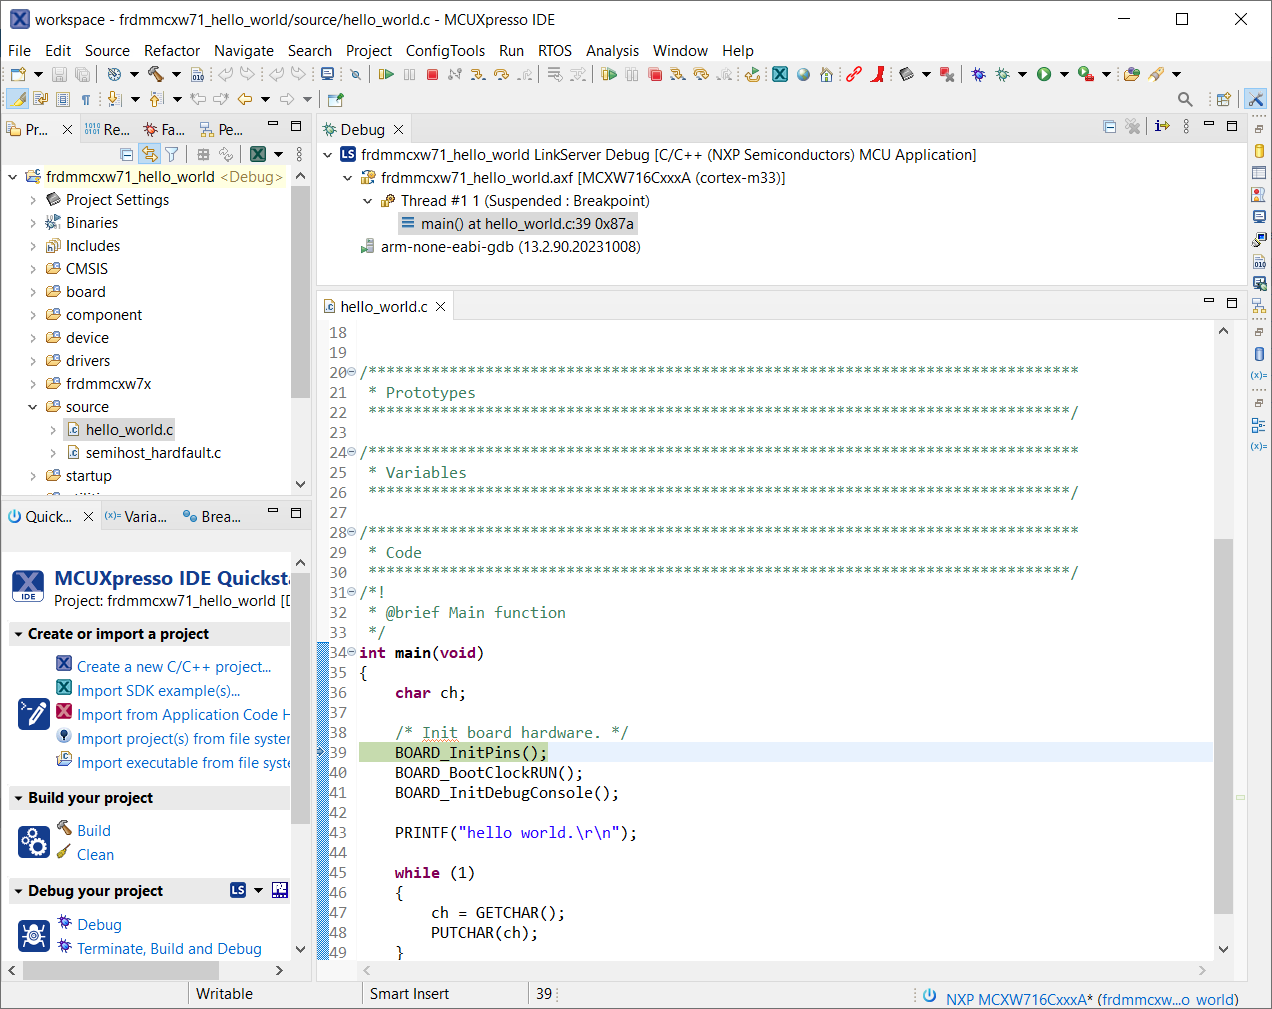
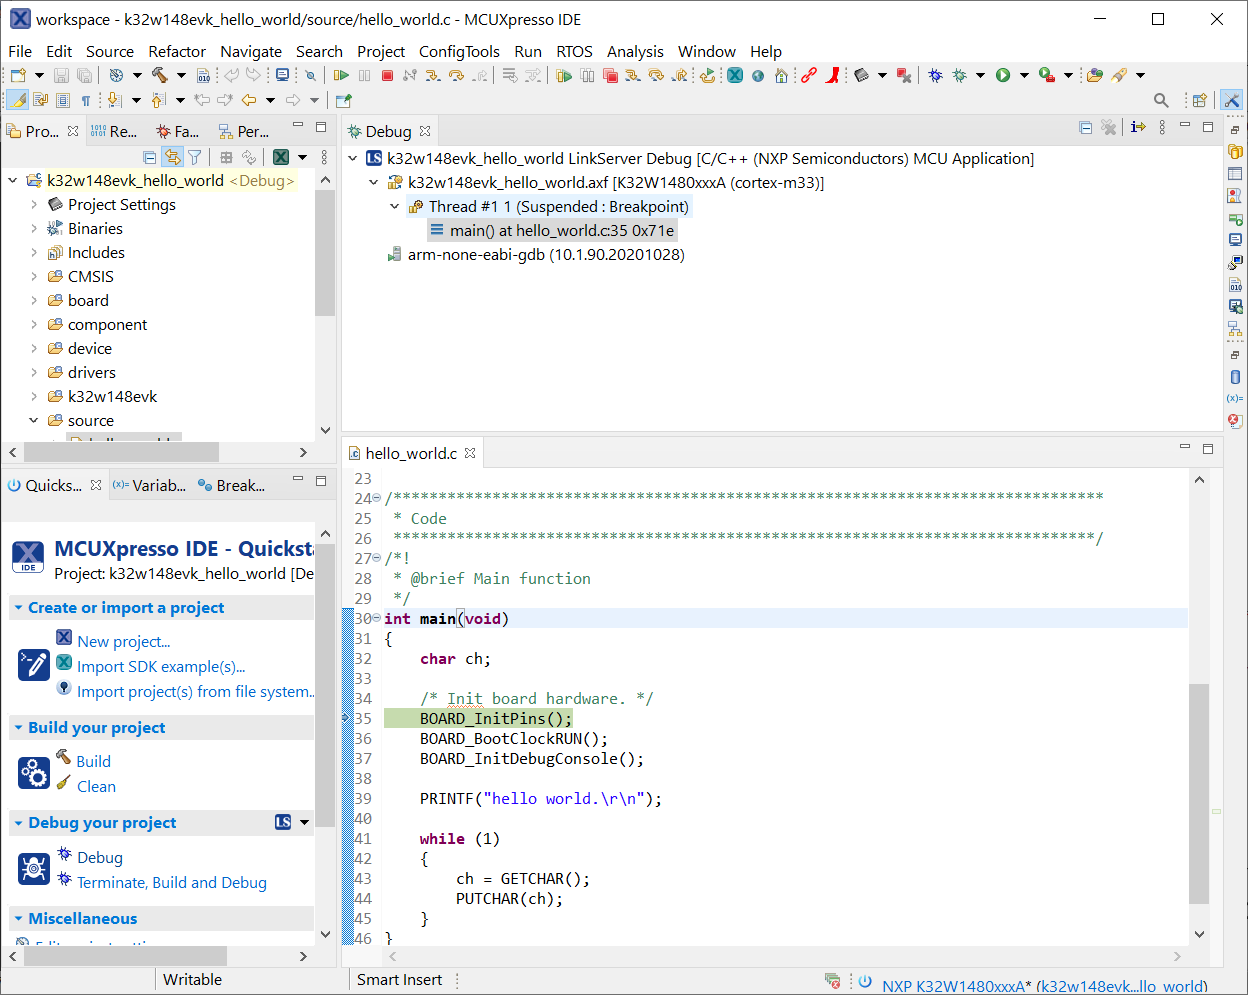
GS for FRDM-MCXW71

diff --git a/boards/frdmmcxw71/gettingStarted/topics/updating_debugger_firmware.md b/boards/frdmmcxw71/gettingStarted/topics/updating_debugger_firmware.md
@@ -1,6 +1,6 @@
 # Updating debugger firmware {#topic_rrw_l2h_5wb}
 
-The FRDM-MCXW71 board comes with a CMSIS-DAP-compatible debug interface \(known as MCU-Link\). This firmware in this debug interface may be updated using the host computer scripts. This typically used when switching between the default debugger protocol \(CMSIS-DAP\) to SEGGER J-Link, or for updating this firmware with new releases of these. This section contains the steps to re-program the debug probe firmware.
+The K32W148-EVK board comes with a CMSIS-DAP-compatible debug interface \(known as MCU-Link\). This firmware in this debug interface may be updated using the host computer scripts. This typically used when switching between the default debugger protocol \(CMSIS-DAP\) to SEGGER J-Link, or for updating this firmware with new releases of these. This section contains the steps to re-program the debug probe firmware.
 
 NXP provides the MCU-Link utility, which is the recommended tool for programming the latest versions of CMSIS-DAP and J-Link firmware onto MCU-Link. The utility can be downloaded from [https://www.nxp.com/design/microcontrollers-developer-resources/mcu-link-debug-probe:MCU-LINK](https://www.nxp.com/design/microcontrollers-developer-resources/mcu-link-debug-probe:MCU-LINK).
 
@@ -8,12 +8,12 @@ These steps show how to update the debugger firmware on your board for Windows o
 
 1.  Install the MCU-Link utility.
 2.  Unplug the board's USB cable.
-3.  Install the jumper on JP5.
+3.  Install the jumper on JP20.
 4.  Connect the probe to the host via USB \(use Link USB connector\).
 5.  Open a command shell and call the appropriate script located in the MCU-Link installation directory, *<MCU-Link install dir*\>.
 
     1.  To program CMSIS-DAP debug firmware: *<MCU-Link install dir\>/scripts/program\_CMSIS*.
     2.  To program J-Link debug firmware: *<MCU-Link install dir\>/scripts/program\_JLINK*.
-6.  Remove the jumper on JP5.
+6.  Remove the jumper on JP20.
 7.  Re-power the board by removing the USB cable and plugging it in again.
 

diff --git a/boards/frdmmcxw71/gettingStarted/topics/running_a_demo_application_using_iar.md b/boards/frdmmcxw71/gettingStarted/topics/running_a_demo_application_using_iar.md
@@ -1,17 +1,6 @@
-# Running a demo application using IAR
+# Running a Demo Application using IAR
 
-This section describes the steps required to build, run, and debug example applications provided in the MCUXpresso SDK. The `hello_world` demo application targeted for the **frdmmcxw71** hardware platform is used as an example, although these steps can be applied to any example application in the MCUXpresso SDK.
-
-MCXW71 is a new product which is not natively supported by IAR toolchain at the time of this writing.
-
-It will be supported in IAR 9.60.3 targeted for mid-Oct 2024. So, before IAR 9.60.3, follow the steps below to apply the patch. This patch provides all the files to be incorporated in IAR Embedded Workbench folder structure so that MCXW71 SDK projects can be built and debugged in this IDE.
-
-**Important:**
-
-The following patch has been tested with IAR Embedded Workbench v9.60. IAR patch is distributed via [https://mcuxpresso.nxp.com/download/29461429d7fb0eb696d55ab0c47e3a6b](https://mcuxpresso.nxp.com/download/29461429d7fb0eb696d55ab0c47e3a6b).
-
-1.  Download the archive file iar\_patch\_mcxw71.zip.
-2.  Unzip the file and copy the arm directory in your IAR folder structure. For example, C:/Program Files/IAR systems.
+This section describes the steps required to build, run, and debug example applications provided in the MCUXpresso SDK. The `hello_world` demo application targeted for the **k32w148evk** hardware platform is used as an example, although these steps can be applied to any example application in the MCUXpresso SDK.
 
 
 ```{include} ../topics/build_an_example_application.md

diff --git a/boards/frdmmcxw71/gettingStarted/topics/mcuxpresso_sdk_board_support_package_folders.md b/boards/frdmmcxw71/gettingStarted/topics/mcuxpresso_sdk_board_support_package_folders.md
@@ -1,6 +1,6 @@
 # MCUXpresso SDK Board Support Package Folders
 
-MCUXpresso SDK board support package provides example applications for NXP development and evaluation boards for Arm Cortex-M cores including Freedom, Tower System, and LPCXpresso boards. Board support packages are found inside the top-level boards folder and each supported board has its own folder \(an MCUXpresso SDK package can support multiple boards\). Within each *<board\_name\>* folder, there are various sub-folders to classify the type of examples it contains. These include \(but are not limited to\):
+MCUXpresso SDK board support package provides example applications for NXP development and evaluation boards for Arm® Cortex®-M cores including Freedom, Tower System, and LPCXpresso boards. Board support packages are found inside the top-level boards folder and each supported board has its own folder \(an MCUXpresso SDK package can support multiple boards\). Within each *<board\_name\>* folder, there are various sub-folders to classify the type of examples it contains. These include \(but are not limited to\):
 
 -   `demo_apps`: Full-featured applications that highlight key functionality and use cases of the target MCU. These applications typically use multiple MCU peripherals and may leverage stacks and middleware.
 -   `driver_examples`: Simple applications that show how to use the MCUXpresso SDK’s peripheral drivers for a single use case. These applications typically only use a single peripheral but there are cases where multiple peripherals are used \(for example, SPI conversion using DMA\).

diff --git a/boards/frdmmcxw71/gettingStarted/topics/overview.md b/boards/frdmmcxw71/gettingStarted/topics/overview.md
@@ -2,7 +2,7 @@
 
 The NXP MCUXpresso software and tools offer comprehensive development solutions designed to optimize, ease and help accelerate embedded system development of applications based on general purpose, crossover and Bluetooth™-enabled MCUs from NXP. The MCUXpresso SDK includes a flexible set of peripheral drivers designed to speed up and simplify development of embedded applications which can be used standalone or collaboratively with the A cores running another Operating System \(such as Linux OS Kernel\). Along with the peripheral drivers, the MCUXpresso SDK provides an extensive and rich set of example applications covering everything from basic peripheral use case examples to demo applications. The MCUXpresso SDK also contains optional RTOS integrations such as FreeRTOS and Azure RTOS, device stack, and various other middleware to support rapid development.
 
-For supported toolchain versions, see *MCUXpresso SDK Release Notes for FRDM-MCXW71* \(Document MCUXSDKMCXW716RN\).
+For supported toolchain versions, see *MCUXpresso SDK Release Notes for K32W148-EVK* \(Document MCUXSDKK32W1RN\).
 
 For the latest version of this and other MCUXpresso SDK documents, see [MCUXpresso Software Development Kit \(SDK\)](https://www.nxp.com/design/software/development-software/mcuxpresso-software-and-tools-/mcuxpresso-software-development-kit-sdk:MCUXpresso-SDK).
 

diff --git a/boards/frdmmcxw71/gettingStarted/topics/run_an_example_application_001.md b/boards/frdmmcxw71/gettingStarted/topics/run_an_example_application_001.md
@@ -2,7 +2,7 @@
 
 To download and run the application, perform these steps:
 
-1.  Connect the development platform to your PC via USB cable between the USB connector \(J10 and the PC USB connector.
+1.  Connect the development platform to your PC via USB cable between the USB connector \(J14\) and the PC USB connector.
 2.  Open the terminal application on the PC, such as PuTTY or TeraTerm, and connect to the debug COM port. To determine the COM port number, see [How to determine COM Port](how_to_determine_com_port.md). Configure the terminal with these settings:
 
     1.  115200 baud rate, depending on your settings \(reference the `BOARD_DEBUG_UART_BAUDRATE` variable in the `board.h` file\)
@@ -28,5 +28,5 @@ To download and run the application, perform these steps:
     ![](../images/iar_text_display_hello_world.jpg "Text display of the hello_world demo")
 
 
-**Parent topic:**[Running a demo application using IAR](../topics/running_a_demo_application_using_iar.md)
+**Parent topic:**[Running a Demo Application using IAR](../topics/running_a_demo_application_using_iar.md)
 

diff --git a/boards/frdmmcxw71/gettingStarted/topics/build_an_example_application.md b/boards/frdmmcxw71/gettingStarted/topics/build_an_example_application.md
@@ -8,10 +8,10 @@ Do the following steps to build the `hello_world` example application..
     <install_dir>/boards/<board_name>/<example_type>/<application_name>/iar
     ```
 
-    Using the `frdmmcxw71` hardware platform as an example, the `hello_world` workspace is located in:
+    Using the k32w148evk hardware platform as an example, the `hello_world` workspace is located in:
 
     ```
-    <install_dir>/boards/frdmmcxw71/demo_apps/hello_world/iar/hello_world.eww
+    <install_dir>/boards/k32w148evk/demo_apps/hello_world/iar/hello_world.eww
     ```
 
     Other example applications may have additional folders in their path.
@@ -28,5 +28,5 @@ Do the following steps to build the `hello_world` example application..
 
 4.  The build completes without errors.
 
-**Parent topic:**[Running a demo application using IAR](../topics/running_a_demo_application_using_iar.md)
+**Parent topic:**[Running a Demo Application using IAR](../topics/running_a_demo_application_using_iar.md)
 

diff --git a/boards/frdmmcxw71/gettingStarted/topics/how_to_set_the_board_to_bootloader.md b/boards/frdmmcxw71/gettingStarted/topics/how_to_set_the_board_to_bootloader.md
@@ -1,12 +1,12 @@
 # How to set the board to the Bootloader ISP mode {#topic_osx_j2h_5wb}
 
-On FRDM-MCXW71 board:
+On K32W148-EVK board:
 
-1.  Press and hold the BOOT CONFIG switch SW3.
-2.  Connect the FRDM-MCXW71 board via micro-USB connector to the PC.
-3.  Release the switch SW3.
+1.  Press and hold the BOOT CONFIG switch SW4.
+2.  Connect the K32W148-EVK board via micro-USB connector to the PC.
+3.  Release the switch SW4.
 4.  Check the associated USB port number on the PC \(such as, COM10\).
-5.  While MCXW716 is in bootloader ISP mode, navigate to the folder where *blhost.exe* is located.
+5.  While the K32W148 is in bootloader ISP mode, navigate to the folder where *blhost.exe* is located.
 6.  Type the command `.\blhost.exe -p COM10 -- get-property 1` to make sure that the K32W148 is in Bootloader ISP mode, you should see:
 
     Ping responded in 1 attempt\(s\)

diff --git a/boards/frdmmcxw71/gettingStarted/topics/run_a_demo_using_mcuxpresso_ide.md b/boards/frdmmcxw71/gettingStarted/topics/run_a_demo_using_mcuxpresso_ide.md
@@ -2,7 +2,7 @@
 
 **Note:** Ensure that the MCUXpresso IDE toolchain is included when generating the MCUXpresso SDK package.
 
-This section describes the steps required to configure MCUXpresso IDE to build, run, and debug example applications. The `hello_world` demo application targeted for the `MCXW716` hardware platform is used as an example, though these steps can be applied to any example application in the MCUXpresso SDK.
+This section describes the steps required to configure MCUXpresso IDE to build, run, and debug example applications. The `hello_world` demo application targeted for the K32W148 hardware platform is used as an example, though these steps can be applied to any example application in the MCUXpresso SDK.
 
 
 ```{include} ../topics/select_the_workspace_location.md

diff --git a/boards/frdmmcxw71/gettingStarted/topics/run_an_example_application.md b/boards/frdmmcxw71/gettingStarted/topics/run_an_example_application.md
@@ -2,7 +2,7 @@
 
 To download and run the application, perform the following steps:
 
-1.  Connect the development platform to your PC via USB cable between the USB connector \(J10\) and the PC USB connector.
+1.  Connect the development platform to your PC via USB cable between the USB connector \(J14\) and the PC USB connector.
 2.  Open the terminal application on the PC, such as PuTTY or TeraTerm. Connect to the debug serial port number \(to determine the COM port number, see [How to determine COM Port](how_to_determine_com_port.md)\). Configure the terminal with these settings:
 
     1.  115200 or 9600 baud rate, depending on your board \(reference `BOARD_DEBUG_UART_BAUDRATE` variable in `board.h` file\)

diff --git a/boards/frdmmcxw71/gettingStarted/topics/build_an_example_application_001.md b/boards/frdmmcxw71/gettingStarted/topics/build_an_example_application_001.md
@@ -10,9 +10,9 @@ To build an example application, follow these steps.
 
     ![](../images/ide_importing_an_sdk_example.jpg "Import an SDK example")
 
-3.  In the window that appears, expand the **MCXW7XX** folder and select **MCXW716CxxxA**. Then, select **frdmmcxw71** and click **Next**.
+3.  In the window that appears, expand the **K32W14X** folder and select **K32W1480xxxA**. Then, select **k32w148evk** and click **Next**.
 
-    ![](../images/ide_selecting_k32w148_board.png "Select the frdmmcxw71 board")
+    ![](../images/ide_selecting_k32w148_board.png "Select K32W14X board")
 
 4.  Expand the `demo_apps` folder and select `hello_world`. Then, click **Next**.
 

diff --git a/boards/frdmmcxw71/gettingStarted/topics/revision_history.md b/boards/frdmmcxw71/gettingStarted/topics/revision_history.md
@@ -2,7 +2,7 @@
 
 [Table 1](#table_revisionhistory) summarizes the revisions to this document.
 
-|Revision number|Release date|Description|
-|---------------|------------|-----------|
-|MCUXSDKFRDMMCXW71GSUG v2.16.000|01 July 2024|Initial release for MCUXpresso SDK 2.16.000 release|
+|Document ID|Release Date|Description|
+|:----------|:-----------|:----------|
+|MCUXSDKK32W1GSUG v2.16.000|17 June 2024|Initial release for MCUXpresso SDK 2.16.000|
 

diff --git a/boards/frdmmcxw71/gettingStarted/gsindex.md b/boards/frdmmcxw71/gettingStarted/gsindex.md
@@ -1,4 +1,4 @@
-# Getting Started with MCUXpresso SDK for FRDM-MCXW71
+# Getting Started with MCUXpresso SDK for K32W148-EVK
 
 
 ```{tocTree}
